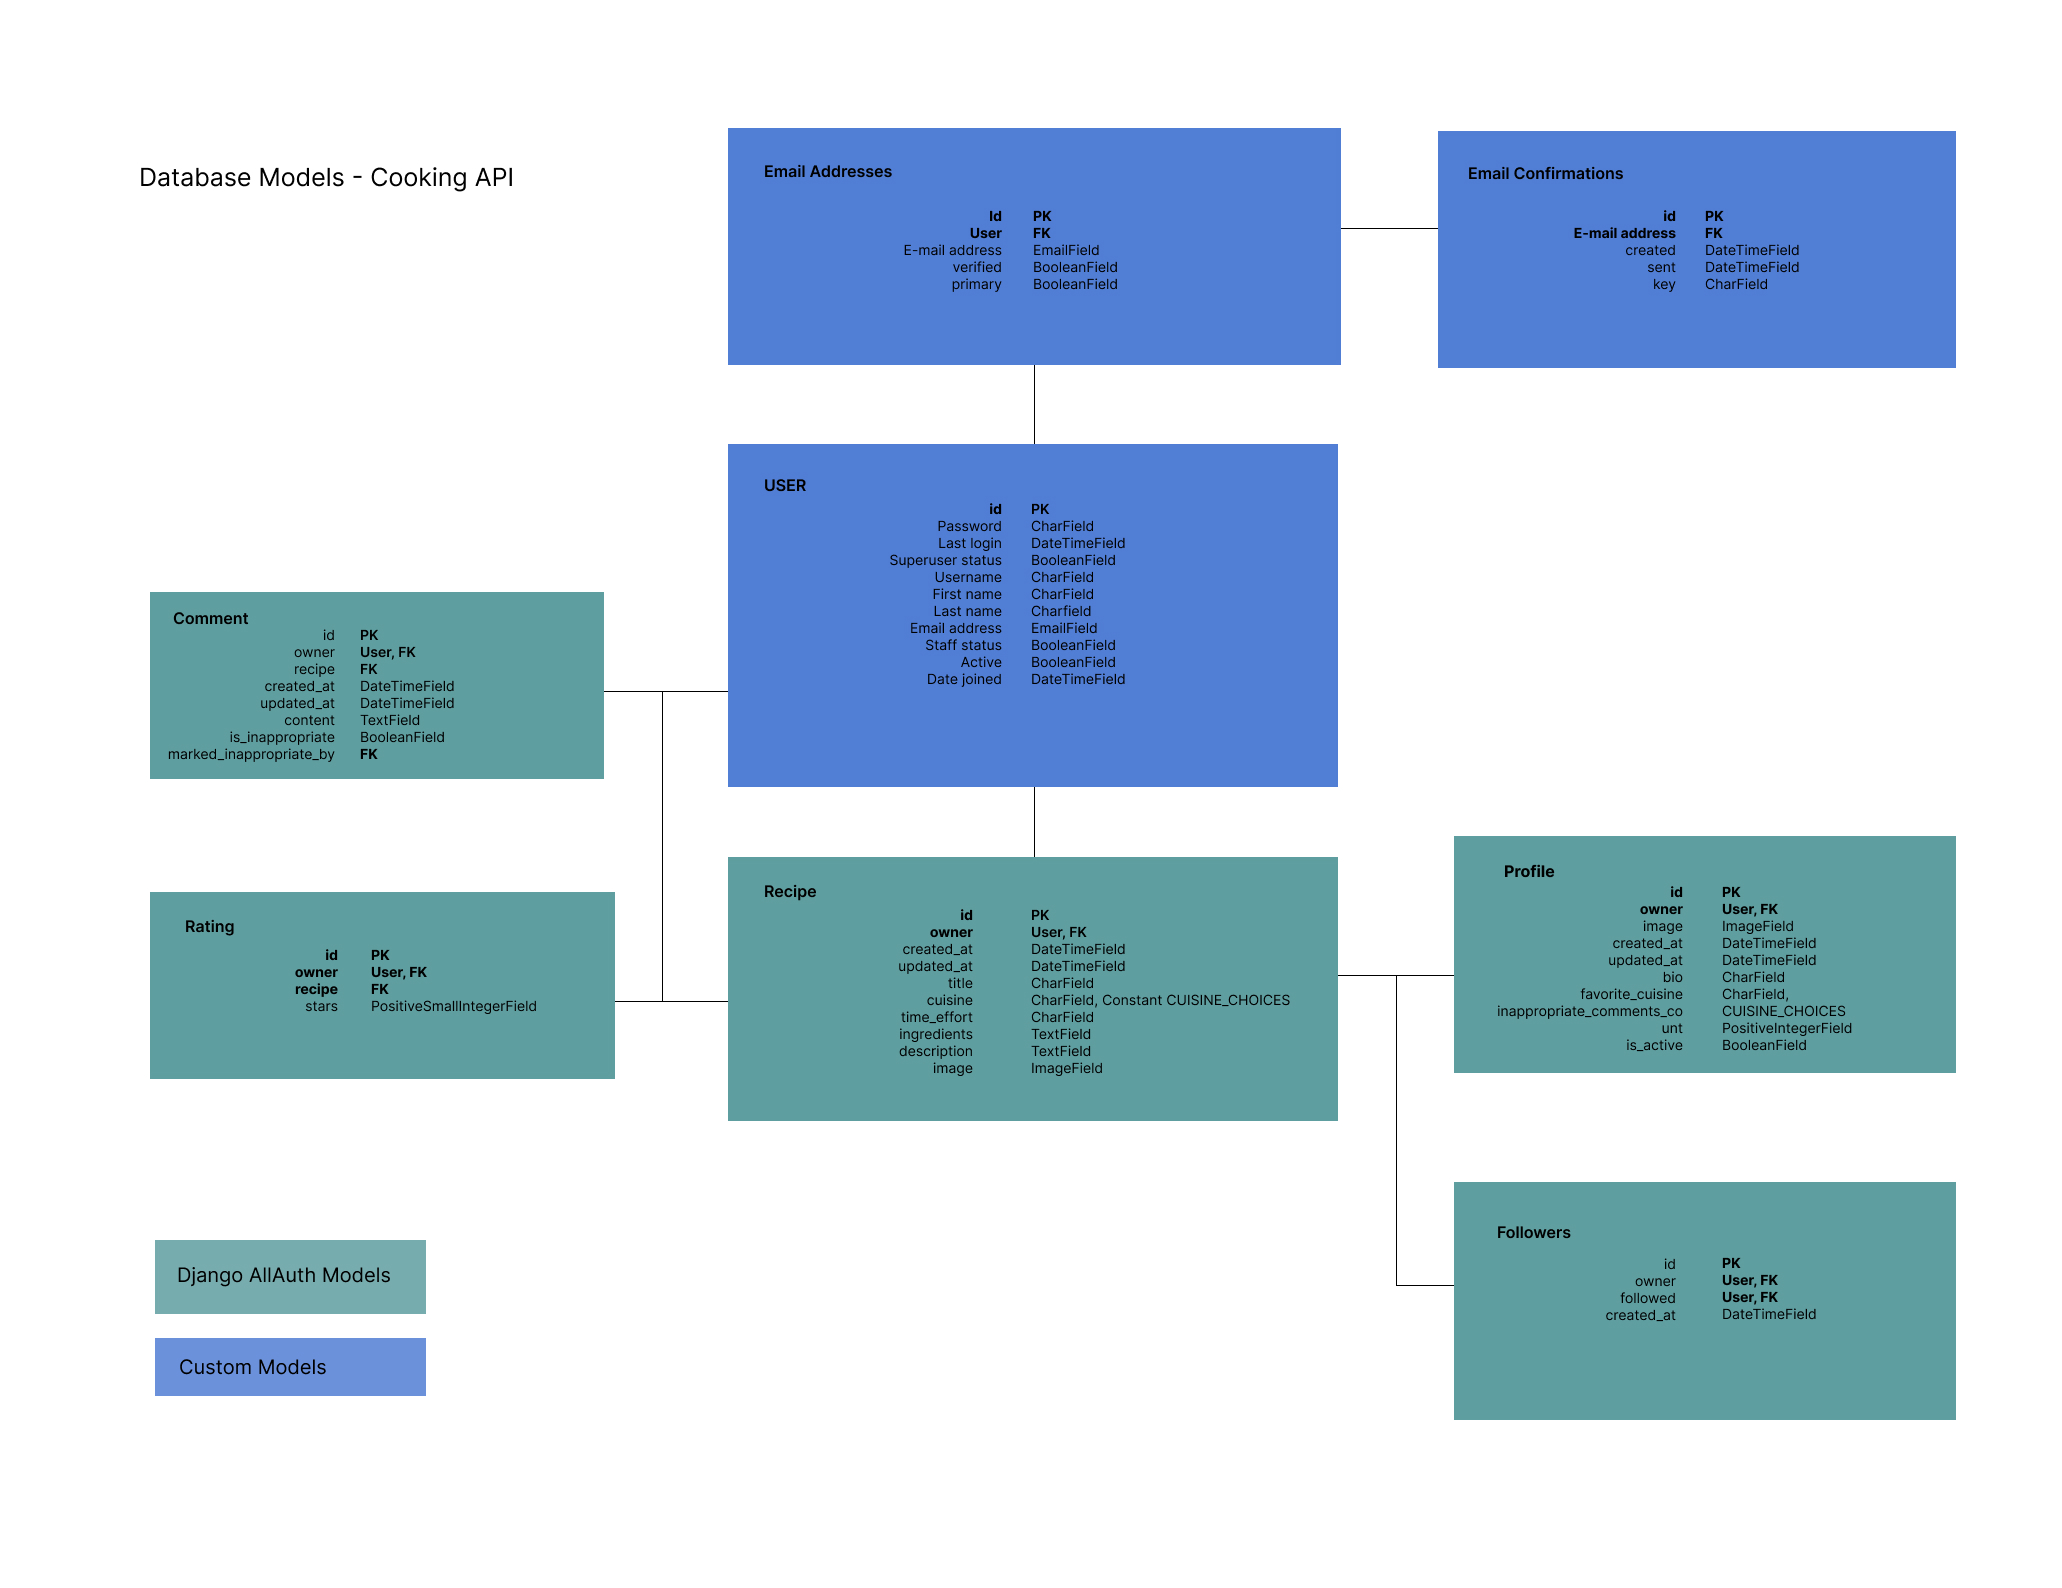
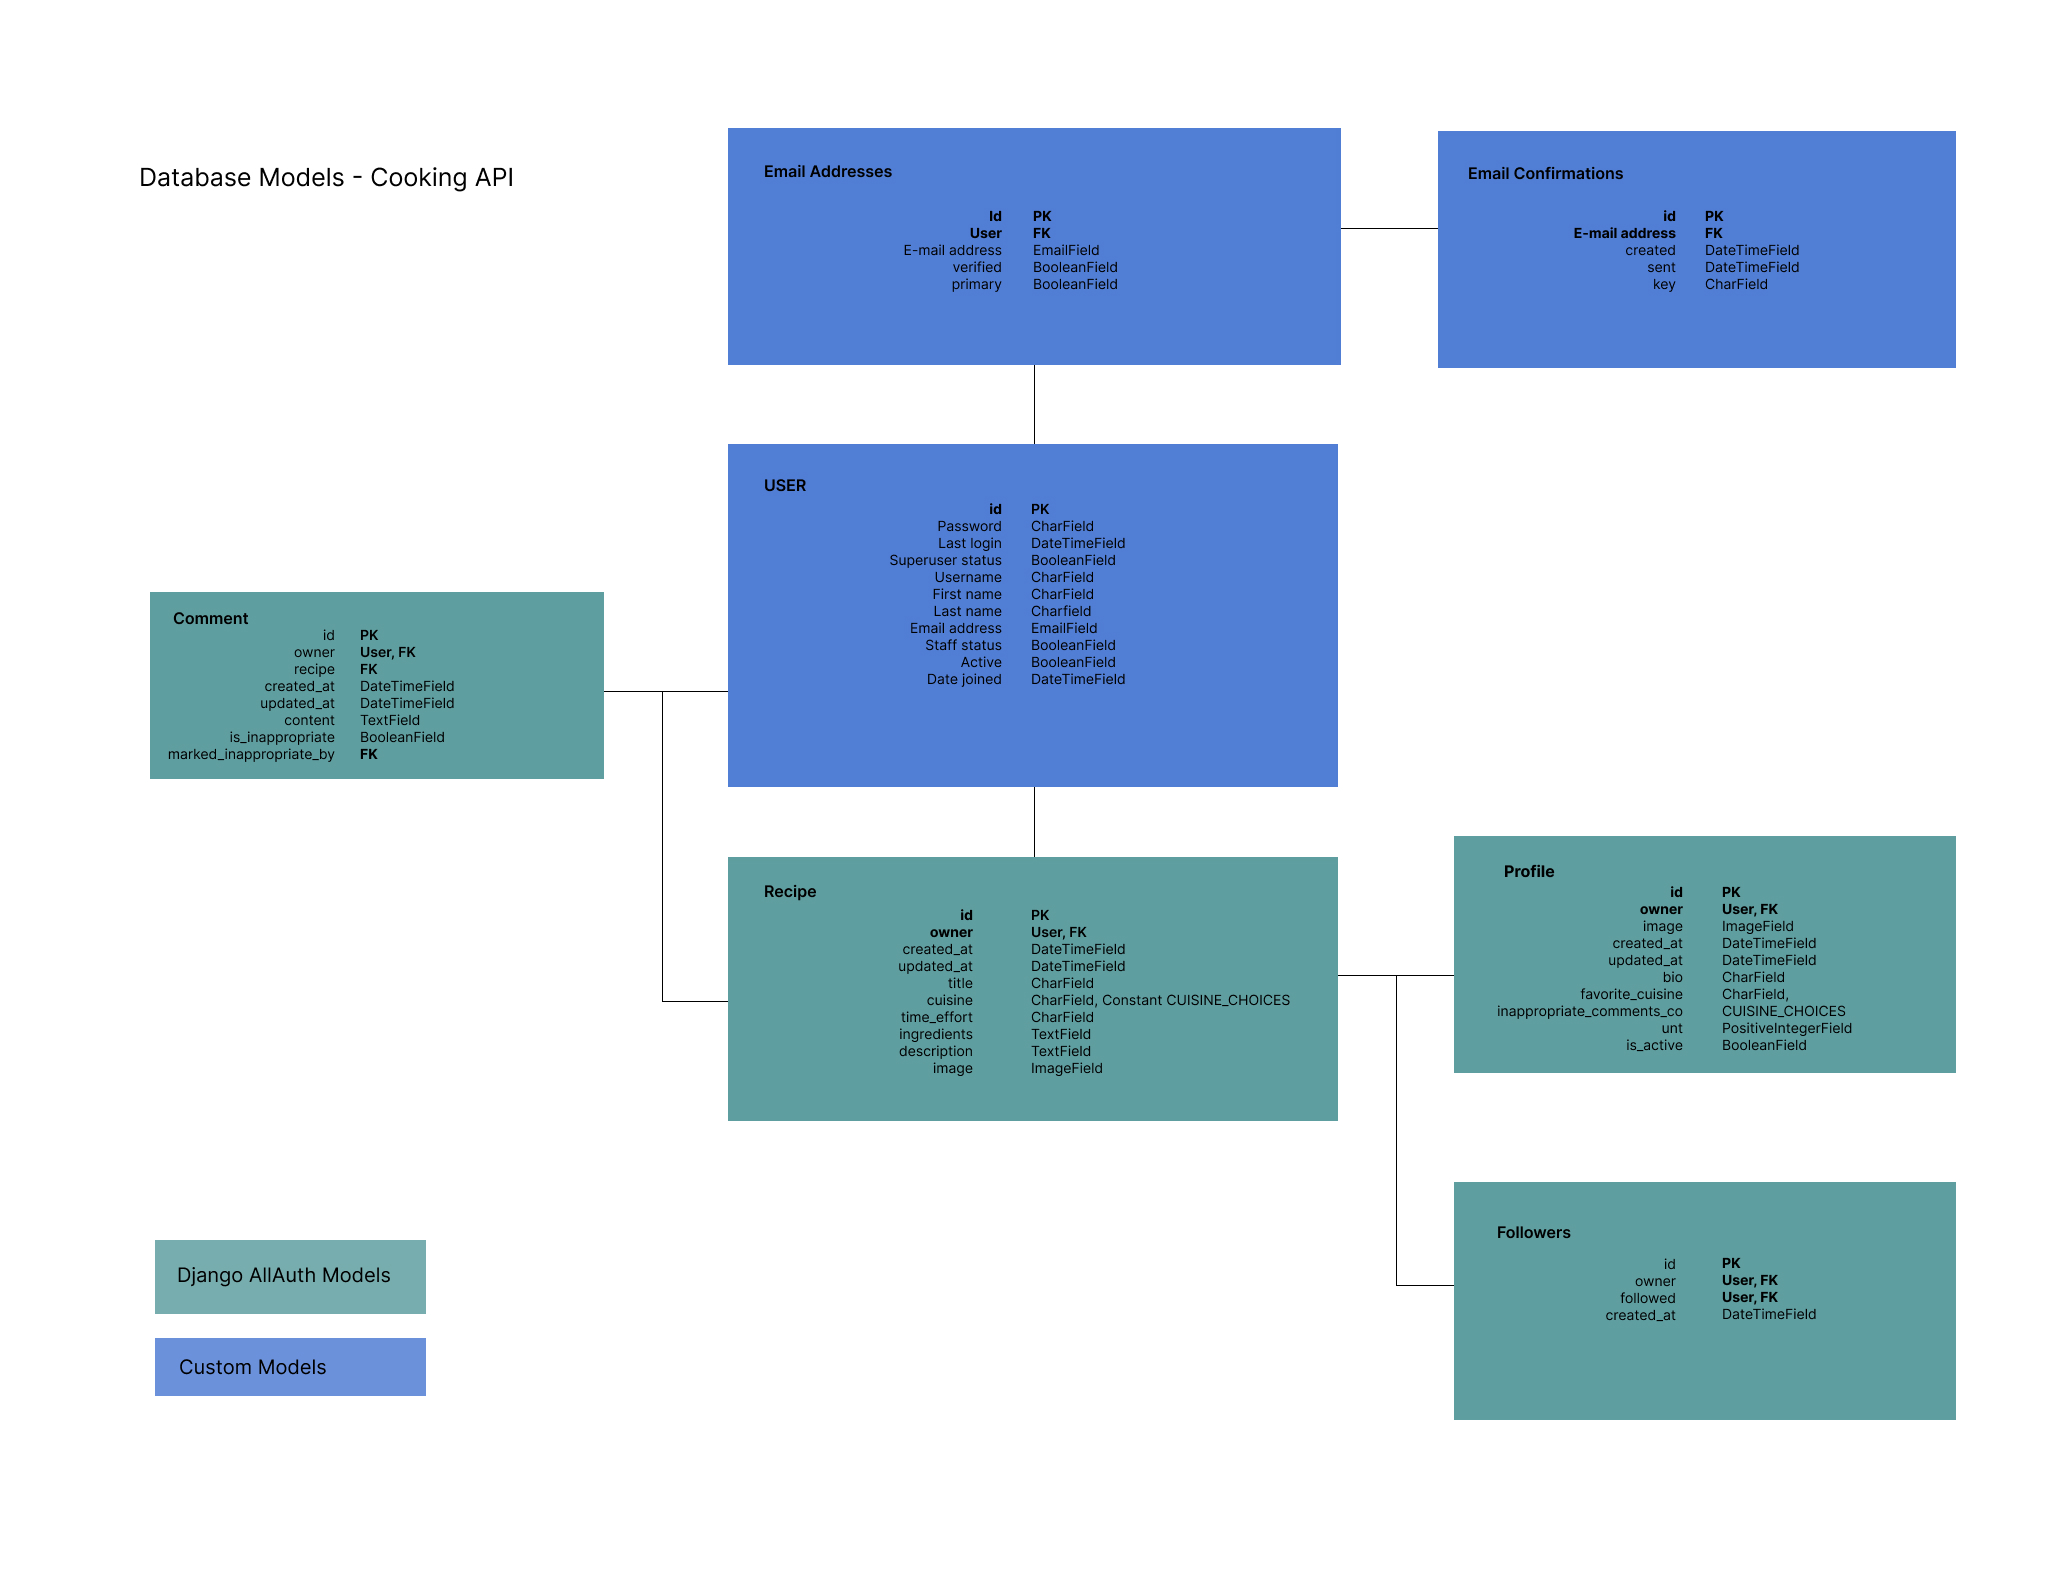
Remove rating from documentation due to time constraints

Changed region(s): [[0.0621, 0.5554, 0.3104, 0.6788]]

diff --git a/README.md b/README.md
@@ -2,7 +2,7 @@
 
 Welcome,
 
-to cooking_api - a restful API - created in Django REST framework to serve the front-end application "Cooking-Around-The-World". The app itself is a social media platform that allows registered users to post recipes, rate and comment recipes of other users and follow other chefs from around the world. The back-end api "cooking-api" is programmed to handle the relevant data of the applications profiles (=chefs), recipes, comments, rating and followers. 
+to cooking_api - a restful API - created in Django REST framework to serve the front-end application "Cooking-Around-The-World". The app itself is a social media platform that allows registered users to post recipes and comment recipes of other users and follow other chefs from around the world. The back-end api "cooking-api" is programmed to handle the relevant data of the applications profiles (=chefs), recipes, comments and followers. 
 
 # Functionality of the cooking-api
 The API was programmed with the Django REST framework
@@ -12,7 +12,6 @@ The user stories I defined for the frontend application "Cook-Around-The-World" 
 Similar to a blog api, the cooking-api handles the interaction between user profiles (called chefs) and their posts (called recipes). Logged in chefs can:
 
 * retrieve recipes, comments and other chef profiles
-* rate recipes
 * comment recipes
 * follow other chefs
 * filter recipes by special interest (e.g. type of cuisine)
@@ -21,7 +20,6 @@ In order the create this functionalities the following apps were created in the 
 * Profiles
 * Recipes
 * Comments
-* Ratings
 * Followers
 
 Each app was set up with according 
@@ -65,7 +63,7 @@ One feedback of the last submission was that the user should never interact with
 
 ## The Profiles Model
 
-The profile model is connected to the django user model through the owner data field. Meaning, each authentificated user has one associated profile that the user actively works with in the application. So profiles post recipes, follow other profiles, post comments, rate recipes and so on. This way user authentification and user profiles are seperated from one another. This makes sense in regards to data safety and also in regards to separate data usage.
+The profile model is connected to the django user model through the owner data field. Meaning, each authentificated user has one associated profile that the user actively works with in the application. So profiles post recipes, follow other profiles, post comments and so on. This way user authentification and user profiles are seperated from one another. This makes sense in regards to data safety and also in regards to separate data usage.
 
 <details><summary>PROFILES Model</summary>
     <img src="assets/img/models/Profile.png">
@@ -96,14 +94,6 @@ The comments model associates a recipe and the owner of a comment with the accor
 
 ### Mark as inappropriate and marked as inappropriate by
 To address cyber mobbing, users can set other users comments to inappropriate - making the comment in question disappear. In the backend the comment is set to mark as inappropriate = true. Additionally it is stored who marked the comment as inappropriate for traceability reasons. This gathered information is important for the profile signal handling deactivation of accounts that are leaving inappropriate comments too often (>=5)
-
-## The Ratings Model
-The rating model handels a 5 star rating that is associated with a specific recipe and rating owner.
-
-<details><summary>RATINGS Model</summary>
-    <img src="assets/img/models/Rating.png">
-    <br>
-</details>
 
 ## The Followers Model
 
@@ -136,7 +126,7 @@ Sprint 4: Debugging the Registration and Login functionality (email verification
 
 Sprint 5: Setting up AllAuth Registration and Login functionality
 
-Sprint 6: Delete likes app and add a  rating app, to implement a 5 star rating instead 
+Sprint 6: Delete likes app and add a rating app, to implement a 5 star rating instead 
 
 Sprint 7: Write signal to handle the inappropriate comments count and trigger the deactivation of profiles based on 5 inappropriate comments or more
 
@@ -148,7 +138,7 @@ Sprint 10: Manual Test of backend functionalities
 
 Sprint 11: Debug the email verification process by managing the email address and email confirmation models of django all auth
 
-Sprint 12: Final round of manual testing, pep 8 style check and documentation
+Sprint 12: Final round of manual testing, pep 8 style check and documentation, delete of rating app due to time constraints
 
 # Technology Used
 
@@ -247,24 +237,6 @@ All endpoints were tested for the functionality following the comparison of expe
     <img src="assets/ManualTesting/16_RecipeDetailPermission2.png">
     <br>
     <img src="assets/ManualTesting/17_RecipeDetailPermission3.png">
-</details>
-
-### Rate Recipes
-
-**User story: As a logged-in user I can rate recipes so that I can share my personal experience about other recipes.**
-
-**Expected Result**: The rating endpoint allows the logged-in user to save a 5 star rating.
-
-**Actual Result**: Works as Expected
-
-<details><summary>Rating</summary>
-    <img src="assets/ManualTesting/29_Ratings.png">
-    <br>
-    <img src="assets/ManualTesting/30_Ratings.png">
-    <br>
-    <img src="assets/ManualTesting/31_Ratings.png">
-    <br>
-    <img src="assets/ManualTesting/32_Ratings.png">
 </details>
 
 ### Recipe List
